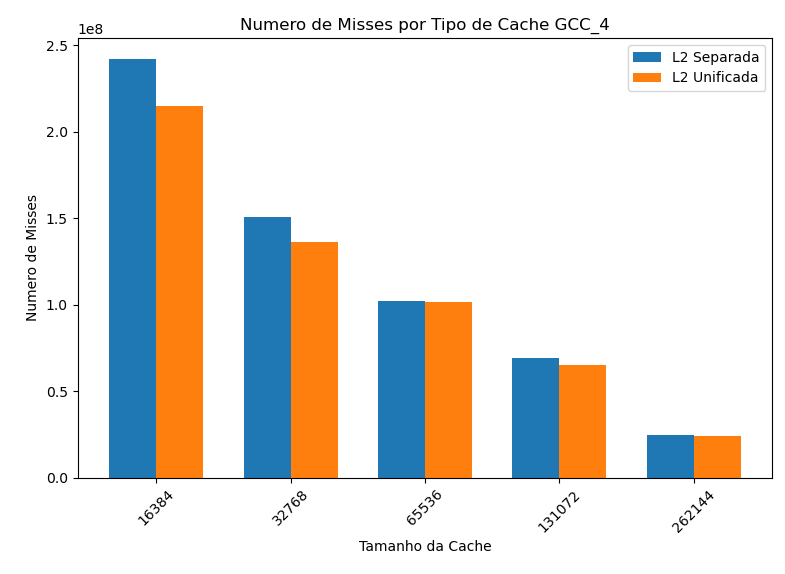
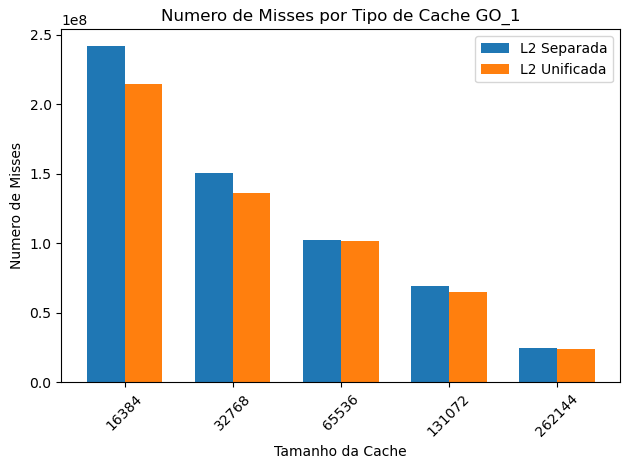
finished bonus experiment again

diff --git a/experiment-bonus/plot_go.py b/experiment-bonus/plot_go.py
@@ -18,7 +18,7 @@ plt.bar(x + width / 2, ul2['total_misses'], width, label='L2 Unificada')
 
 plt.xlabel('Tamanho da Cache')
 plt.ylabel('Numero de Misses')
-plt.title('Numero de Misses por Tipo de Cache GCC_4')
+plt.title('Numero de Misses por Tipo de Cache GO_1')
 plt.xticks(x, sl2['l2_cache_size'], rotation=45)
 plt.legend()
 
